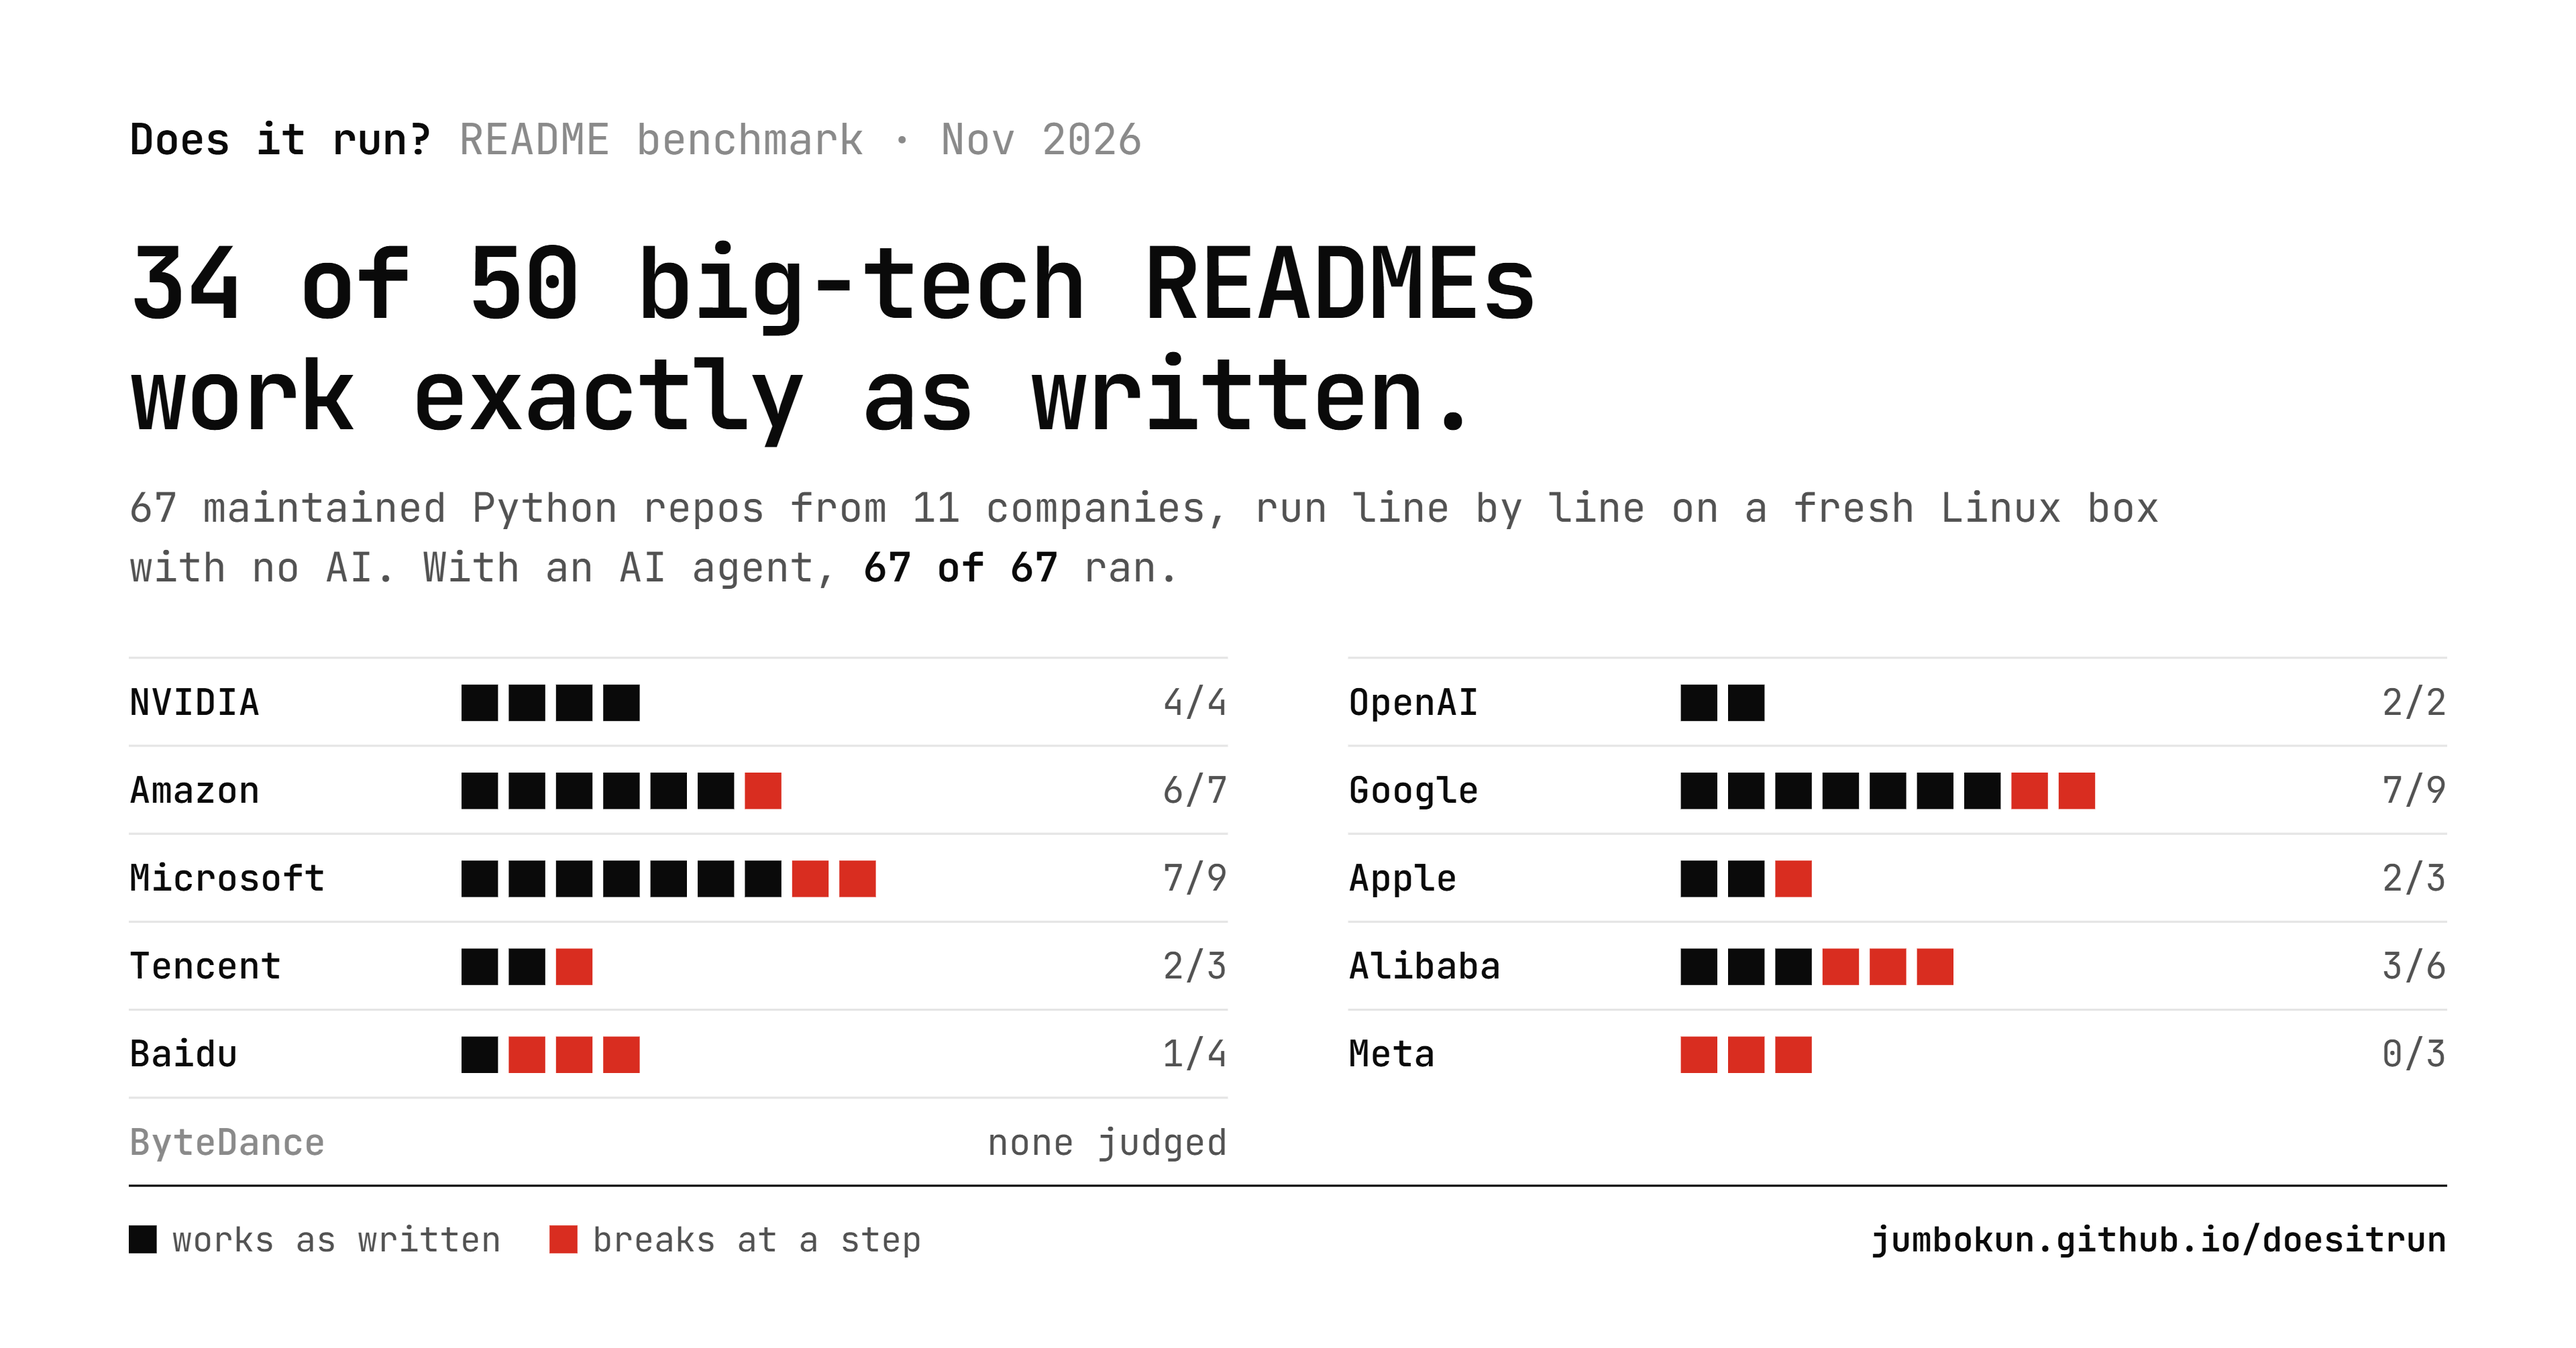
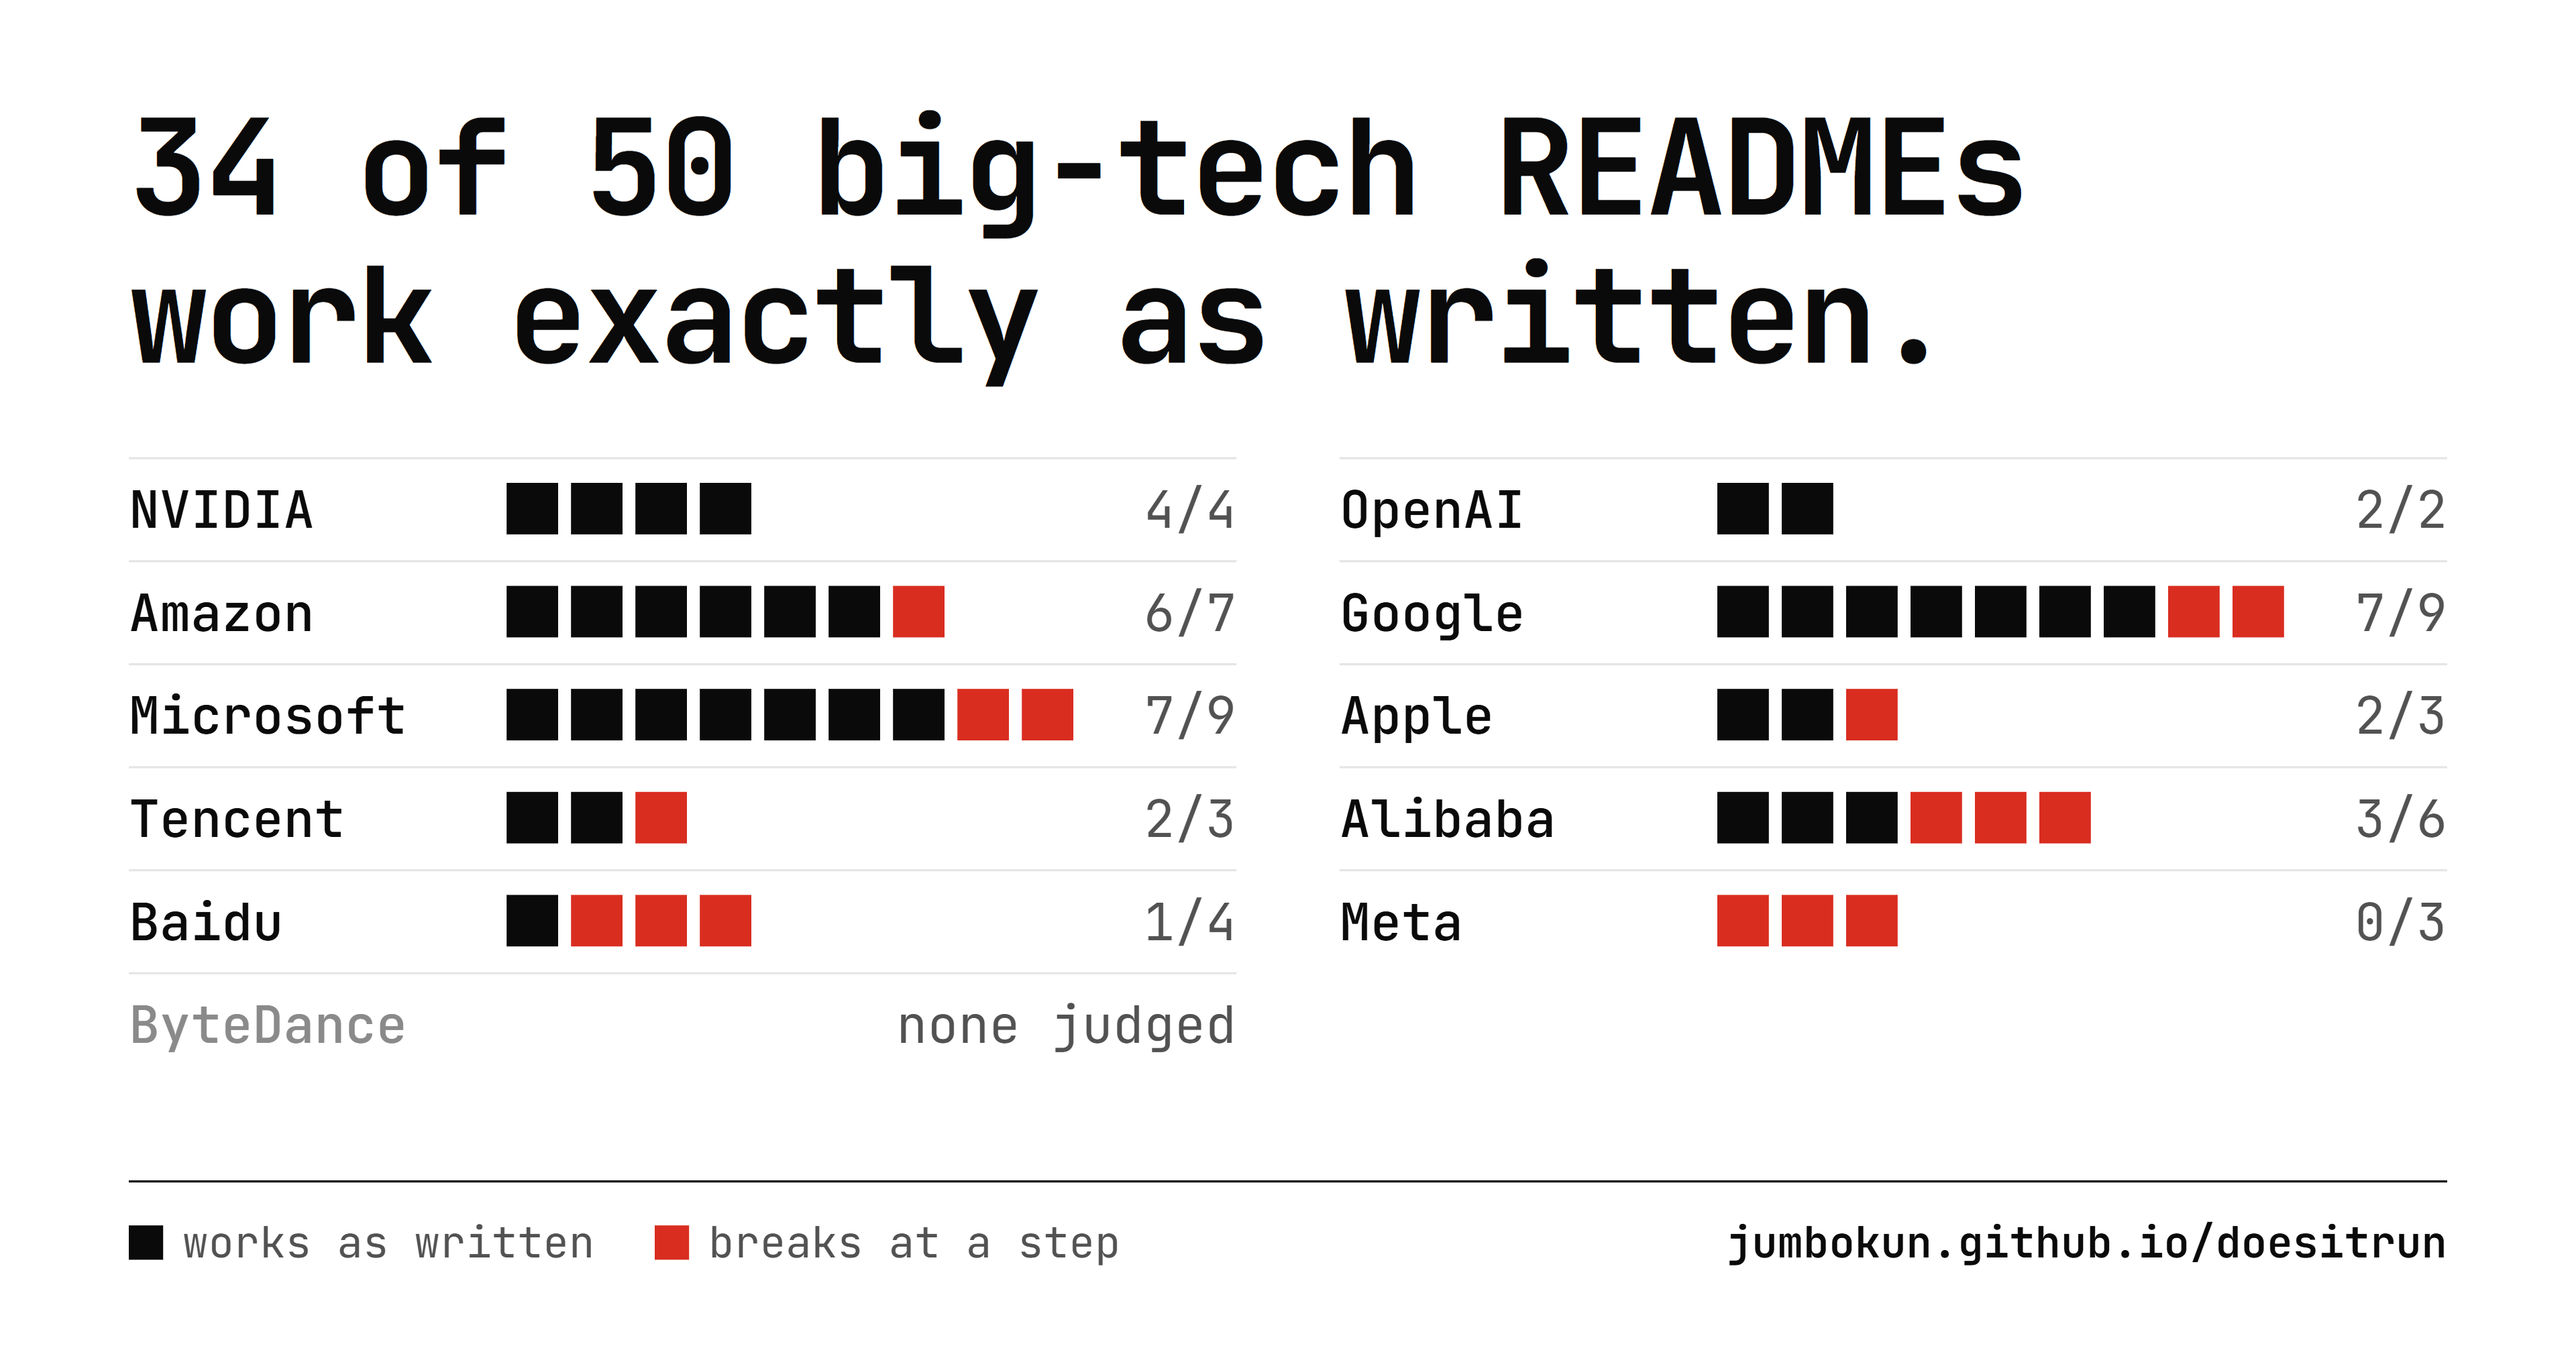
Make the link-preview image readable as a thumbnail
LinkedIn shows og:image small and recompressed; the 17 px labels turned
to mush. Drop the subtitle and brand line, and set the headline at 62 px
and the company rows at 24 px so the card still reads at 400 px wide.

diff --git a/og_card.py b/og_card.py
@@ -72,8 +72,10 @@ h1 b {{ font-weight:700; }}
 .key {{ display:flex; gap:1.4em; }}
 .key i {{ display:inline-block; width:.8em; height:.8em; margin-right:.45em; vertical-align:-.05em; }}
 .foot .url {{ color:var(--ink); font-weight:600; }}
-.og {{ --w:1200px; --h:628px; --pad:52px 60px 44px; --gap:28px; --s-brand:20px; --s-h1:46px; --s-sub:19px; --sub-w:1000px;
-      --cols:2; --cg:56px; --co-w:150px; --row-pad:9px; --cell:17px; --cell-gap:5px; --s-row:17px; --s-foot:16px; }}
+.og {{ --w:1200px; --h:628px; --pad:44px 60px 36px; --gap:30px; --s-h1:62px;
+      --cols:2; --cg:48px; --co-w:170px; --row-pad:8px; --cell:24px; --cell-gap:6px; --s-row:24px; --s-foot:20px; }}
+.og .brand, .og .sub {{ display:none; }}
+.og h1 {{ margin-top:0; font-weight:700; }}
 .post {{ --w:1080px; --h:1350px; --pad:72px 76px 60px; --gap:42px; --s-brand:26px; --s-h1:68px; --s-sub:27px; --sub-w:900px;
         --cols:1; --cg:0; --co-w:220px; --row-pad:12px; --cell:30px; --cell-gap:8px; --s-row:26px; --s-foot:22px; }}
 .post .foot {{ flex-direction:column; align-items:flex-start; gap:18px; }}
